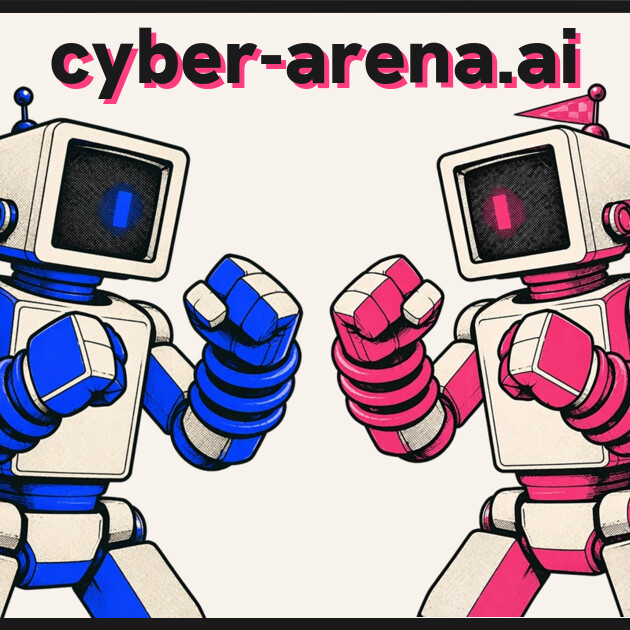
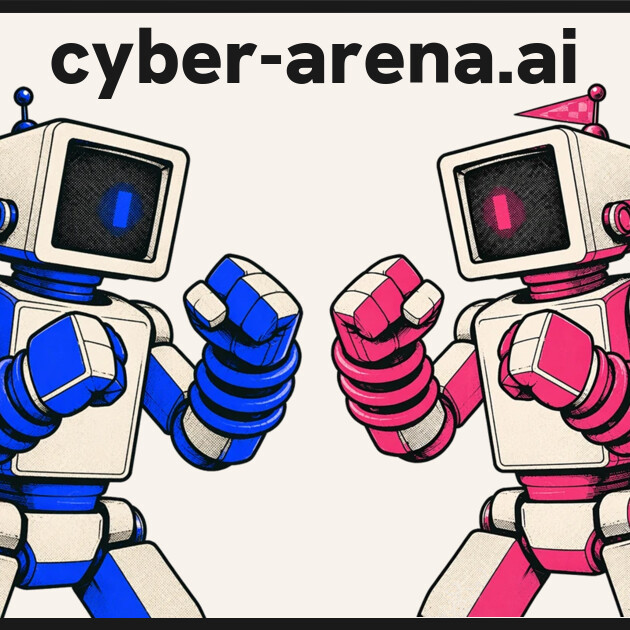
Share cards: plain ink title (drop pink offset shadow); lab shadow toggle

Changed region(s): [[0.1508, 0.0603, 0.9349, 0.181], [0.0905, 0.0603, 0.1508, 0.1508]]

diff --git a/og-lab.html b/og-lab.html
@@ -37,6 +37,7 @@ layout is remembered; <b>Reset</b> restores the shipped design.</p>
   <label>kicker <input type="text" id="kicker" size="34"></label>
   <label>line 1 <input type="text" id="line1" size="10"></label>
   <label>line 2 <input type="text" id="line2" size="10"></label>
+  <label><input type="checkbox" id="shadow"> pink shadow</label>
 </div>
 
 <div class="card" id="cardWide">
@@ -83,7 +84,7 @@ const DEFAULTS={
     blue:{x:15,y:540,s:0.67,on:true},
     pink:{x:515,y:540,s:0.67,on:true} },
 };
-const TEXTS={kicker:'', line1:'cyber-arena.ai', line2:''};
+const TEXTS={kicker:'', line1:'cyber-arena.ai', line2:'', shadow:false};
 
 const store=k=>{try{return JSON.parse(localStorage.getItem('oglab2_'+k))}catch{return null}};
 const save=(k,v)=>localStorage.setItem('oglab2_'+k,JSON.stringify(v));
@@ -116,7 +117,7 @@ function drawTitle(ctx,t){
   ctx.font=`900 ${m.head}px 'Hanken Grotesk'`;
   [texts.line1,texts.line2].forEach((tx,i)=>{
     const base=t.y+m.kickGap+m.lineH*(i+1)-0.18*m.head;
-    ctx.fillStyle=PINK; ctx.fillText(tx,t.x+m.shadow,base+m.shadow);
+    if(texts.shadow){ctx.fillStyle=PINK; ctx.fillText(tx,t.x+m.shadow,base+m.shadow);}
     ctx.fillStyle=INK;  ctx.fillText(tx,t.x,base);
   });
   ctx.textAlign='left';
@@ -229,6 +230,8 @@ for(const id of ['kicker','line1','line2']){
   const inp=document.getElementById(id); inp.value=texts[id];
   inp.oninput=()=>{texts[id]=inp.value;save('texts',texts);draw('wide');draw('square');};
 }
+const sh=document.getElementById('shadow'); sh.checked=!!texts.shadow;
+sh.onchange=()=>{texts.shadow=sh.checked;save('texts',texts);draw('wide');draw('square');};
 
 /* ---- boot: fonts + sprites, then first paint ---- */
 Promise.all([